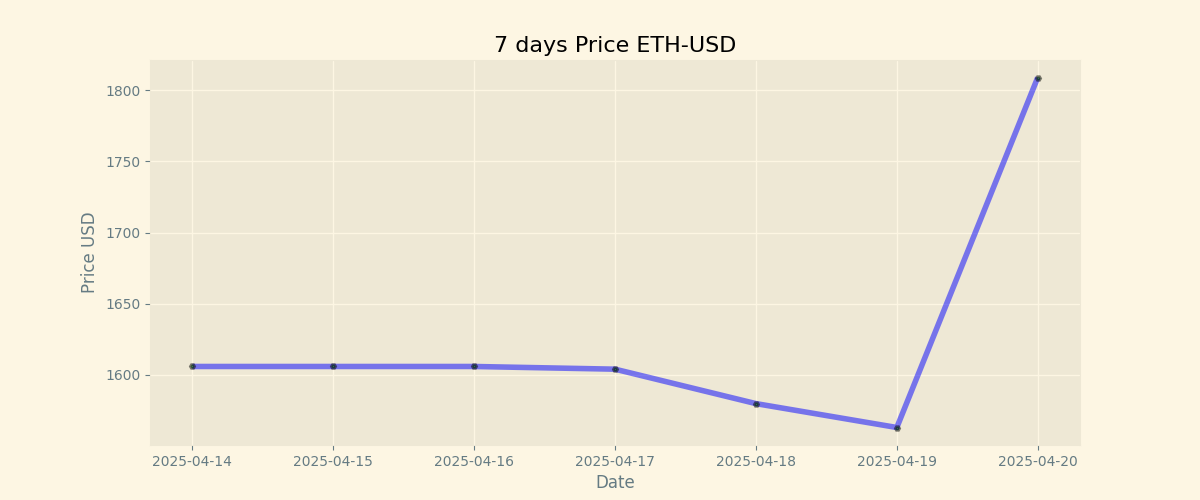
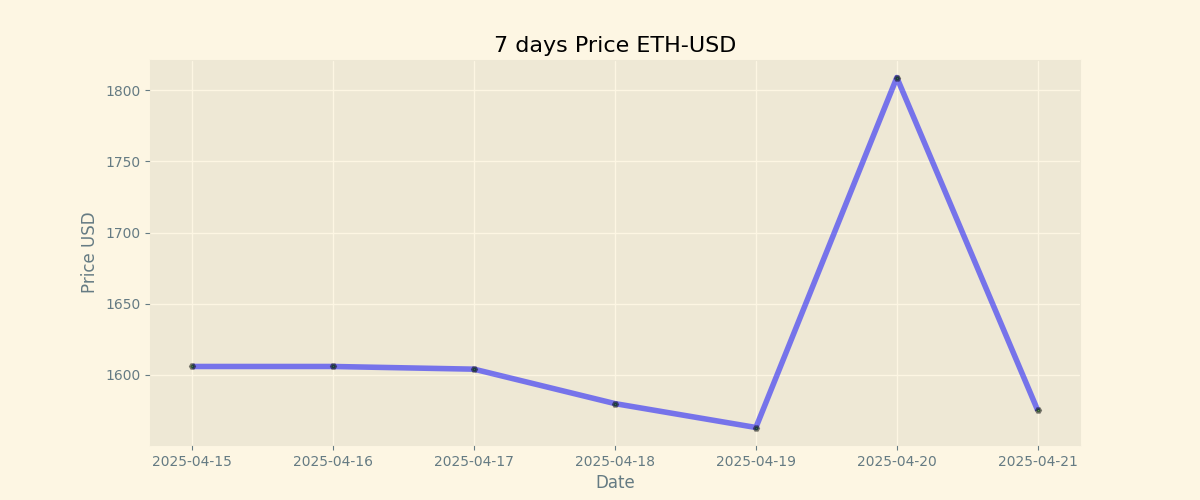
Duty Updates 2025-04-21

diff --git a/README.md b/README.md
@@ -9,8 +9,8 @@
 
 | Currency | Price           |
 | -------- | --------------- |
-| **BTC**  | **$ 85300.0** |
-| **ETH**  | **$ 1808.81** |
+| **BTC**  | **$ 84320.0** |
+| **ETH**  | **$ 1575.17** |
 
 ## BTC chart
 
